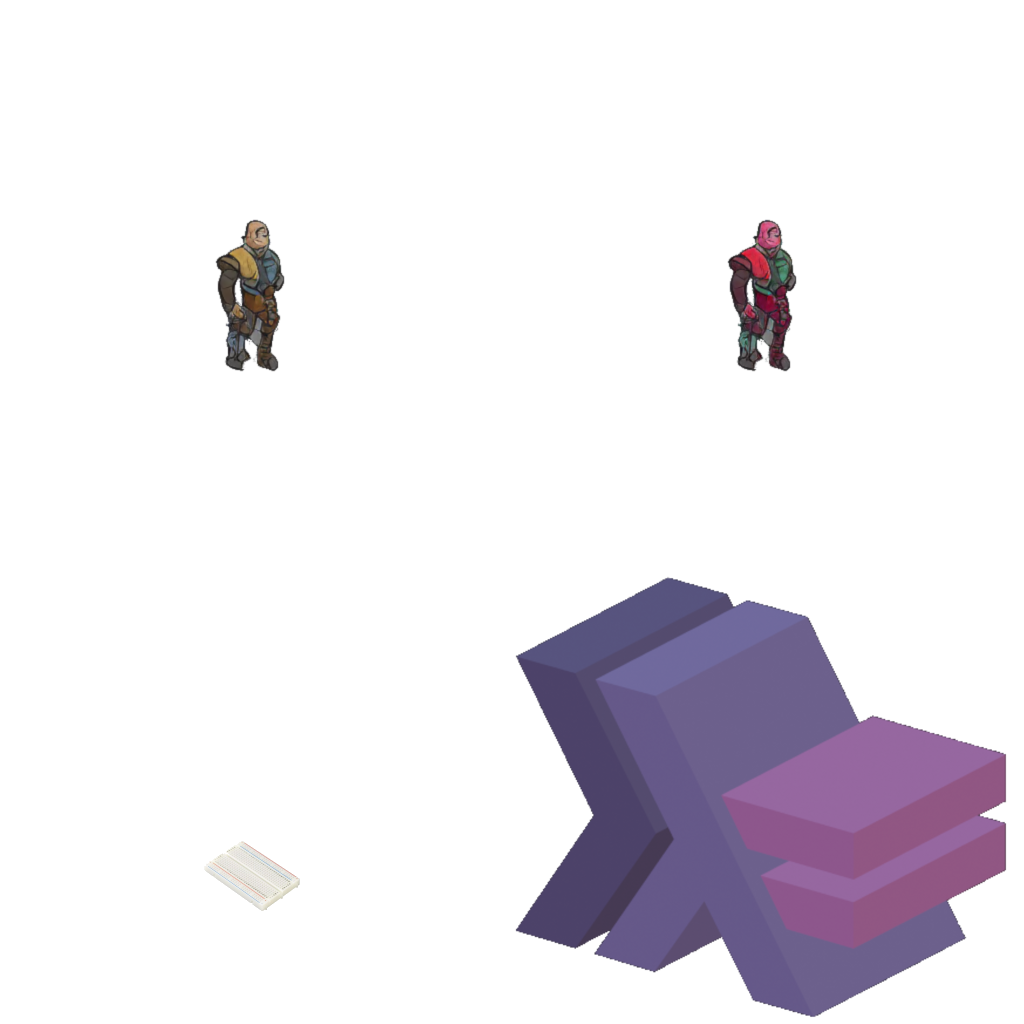
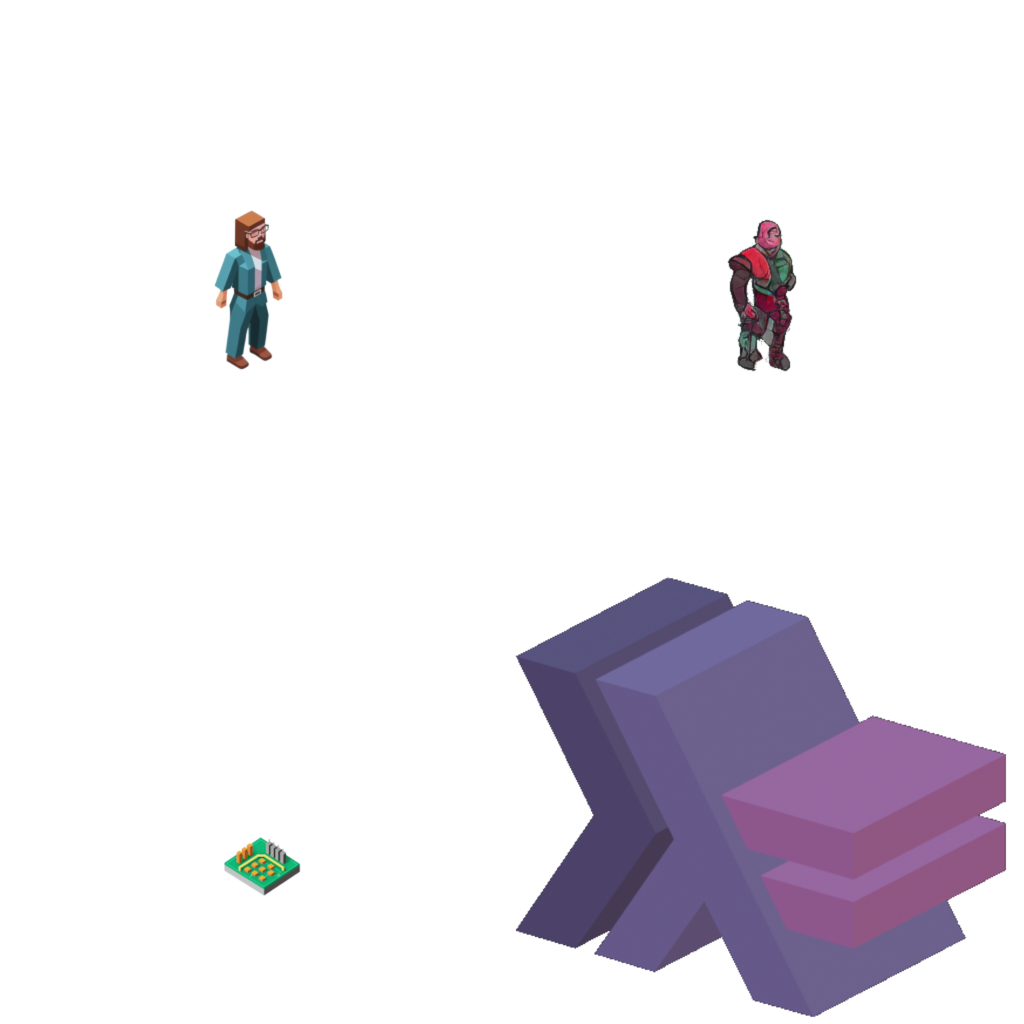
Added new texture plus fixed a few rendering bugs

Changed region(s): [[0.1875, 0.1875, 0.2812, 0.375], [0.1875, 0.8125, 0.3125, 0.9062]]

diff --git a/extension/render.c b/extension/render.c
@@ -326,7 +326,7 @@ void renderGrid(GameState* gState, RenderState* state, Mat3f* viewMat)
 
 void renderIsoGrid(GameState* gState, RenderState* state, Mat3f* viewMat)
 {
-        Vec2d scaledSize = (Vec2d){1.282 / ((gState->player->cameraSize.x)), 1.282 * 2.0 / ((gState->player->cameraSize.y))};
+        Vec2d scaledSize = (Vec2d){1.282 / ((gState->player->cameraSize.x)), 1.282 * (state->resolution.x / (double)state->resolution.y) / ((gState->player->cameraSize.y))};
     Vec2d lolOffset = (Vec2d){0,0};// Vec2d_add(Vec2d_scale(gState->player->cameraSize, -0.19), (Vec2d){5.94, 5.94});
     Vec2d cameraCenterGrid = getIsoPos(Vec2d_add((Vec2d){0,0},Vec2d_add(gState->player->entity->pos, Vec2d_rotate(Vec2d_scale(gState->player->cameraSize, 0), 0))), gState->currentLevel->currentRoom->size);
     //*viewMat = Mat3f_construct( (Vec2d){ -cameraCenterGrid.x * (0.19 * gState->player->cameraSize.x / gState->currentRoom->size.y),  -cameraCenterGrid.y* (0.19 * gState->player->cameraSize.y / gState->currentRoom->size.y)}, (Vec2d){lolOffset.x / gState->currentRoom->size.y, lolOffset.y / gState->currentRoom->size.y});
@@ -368,7 +368,7 @@ void render(GameState* gState, RenderState* state)
     for(Entity** ent = entities; *ent != NULL; ent++)
     {
         Mat3f viewMatCharacter = Mat3f_multiply(Mat3f_construct(getIsoOrGridPos(gState, state, (*ent)->pos), (Vec2d){1.0f, 1.0f}), viewMat);
-        glUniform1i(glGetUniformLocation(state->shader, "flipHorizontal"), Vec2d_rotate((*ent)->velocity, 45.0).x < 0.0);
+        glUniform1i(glGetUniformLocation(state->shader, "flipHorizontal"), Vec2d_rotate((*ent)->velocity, 45.0).x < EPSILON);
 
         Vec2d lb = Vec2d_add((*ent)->pos, Vec2d_scale((*ent)->hitbox.bottomLeft, 1));
         Vec2d rb = Vec2d_add((*ent)->pos, Vec2d_scale((Vec2d){(*ent)->hitbox.topRight.x, (*ent)->hitbox.bottomLeft.y}, 1));

diff --git a/extension/entity.c b/extension/entity.c
@@ -124,7 +124,7 @@ Player *Entity_construct_player()
     Entity *entity = calloc(sizeof(Entity), 1);
 
     *entity = (Entity) {.ATK = 100, .canFly = false,
-            .hitbox = (Rectangle){(Vec2d){-0.4f, -0.4f}, (Vec2d){0.4f, 0.4f}},
+            .hitbox = (Rectangle){(Vec2d){-0.25f, -0.25f}, (Vec2d){0.25f, 0.25f}},
             .HP = 100, .maxHP = 100, .SPD = 5, .velocity = (Vec2d){0.0f, 0.0f},
             .attack_func = shooter_attack, .faction = ALLY, .attack_SPD = 5, .attack_cooldown = 30};
     *player = (Player) {.entity = entity, .movement_swing = 0.3, .acceleration_const = 0.8, .cameraSize = (Vec2d){8, 8}};
